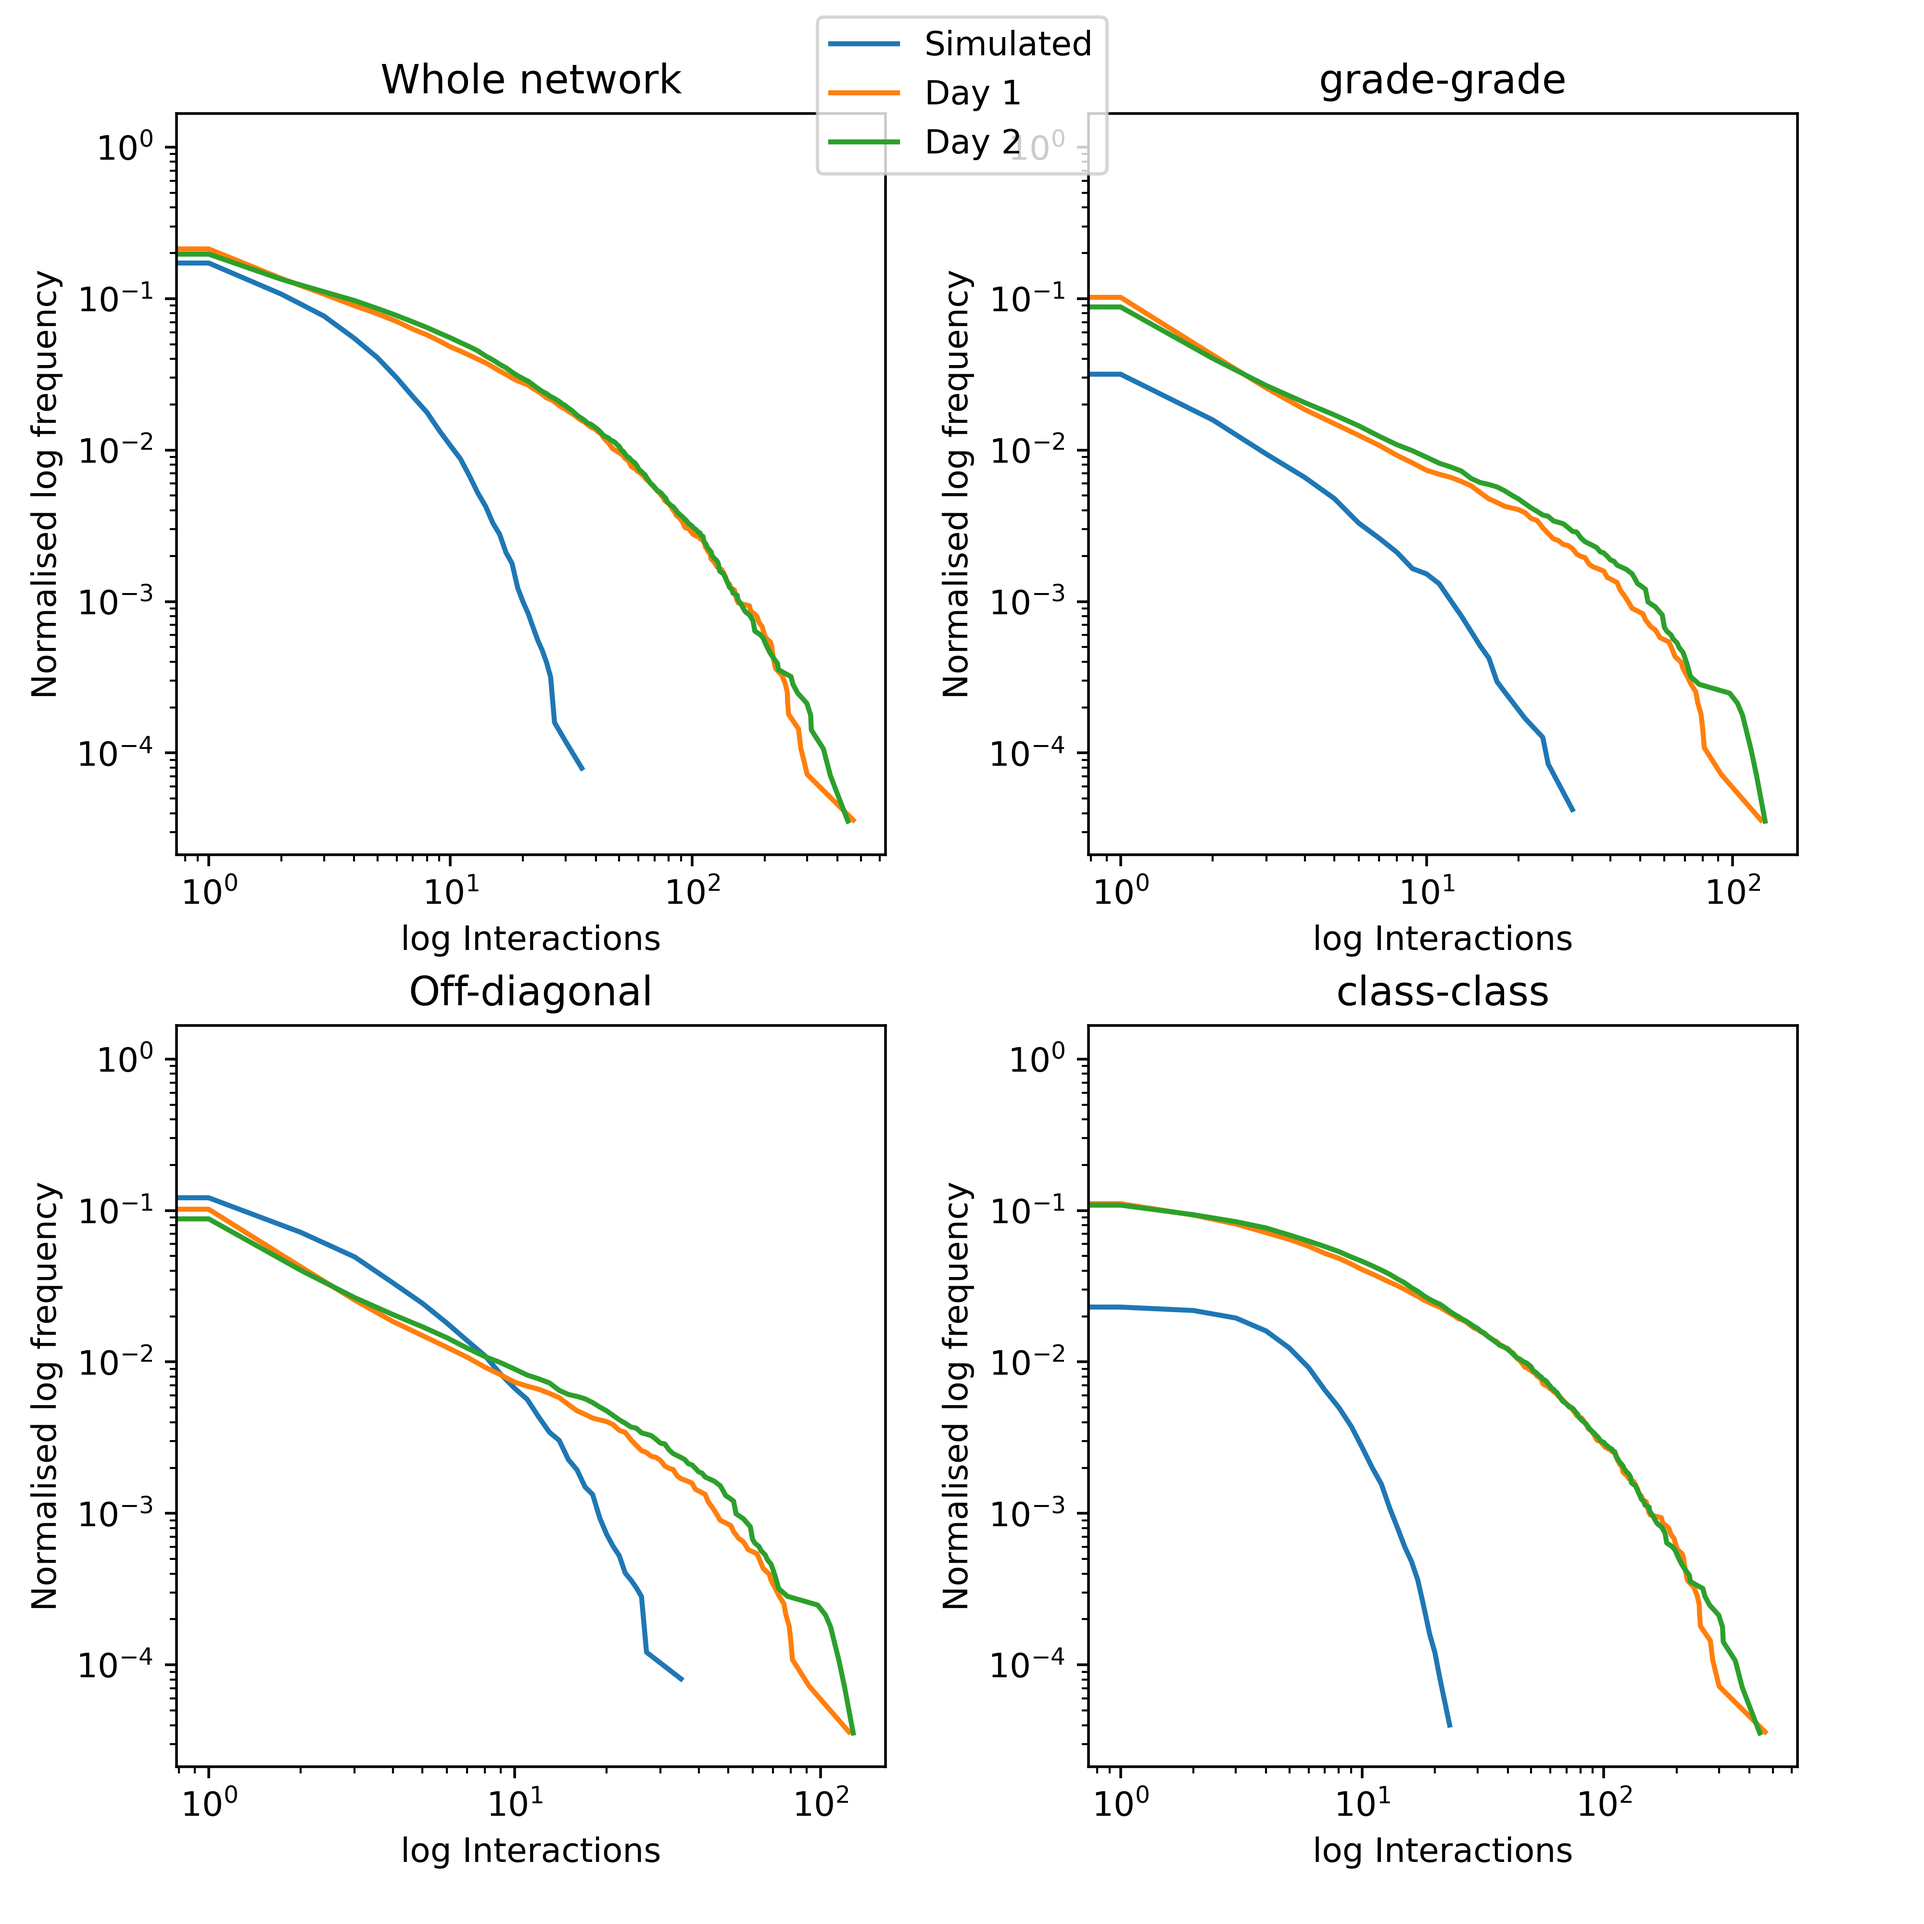
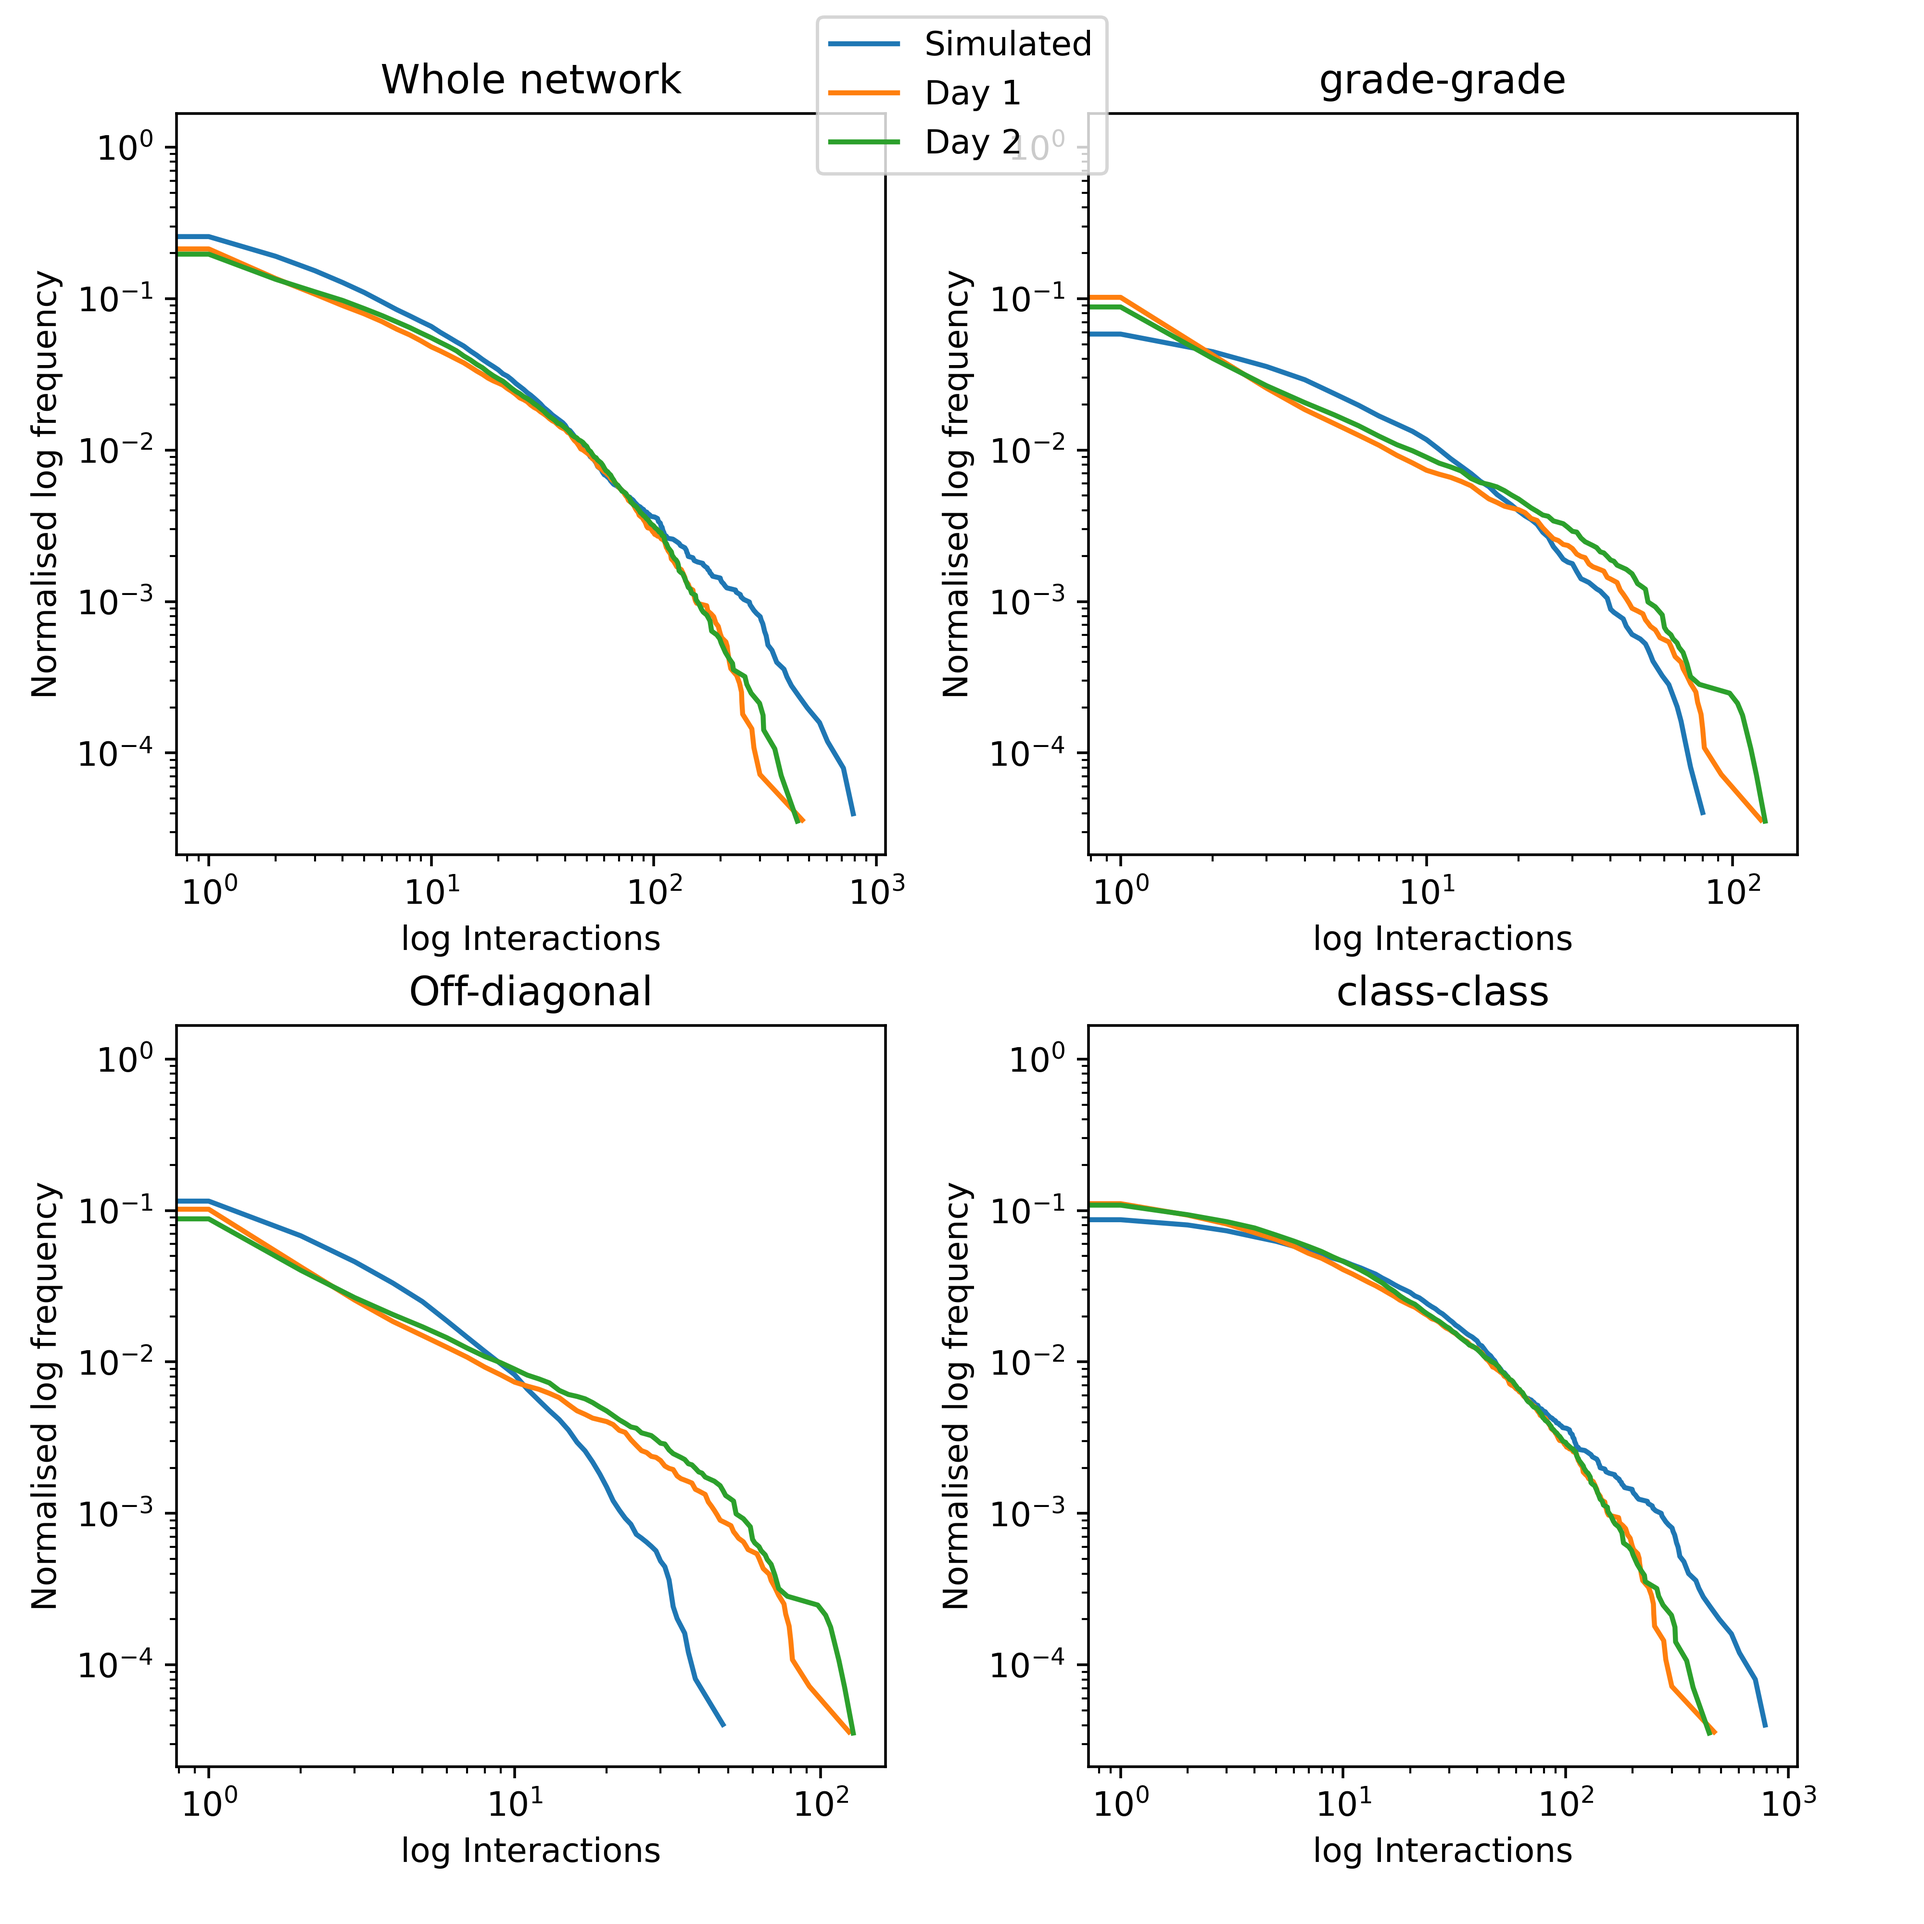
Updated parameters

diff --git a/person.py b/person.py
@@ -266,12 +266,12 @@ class Person:
             b2 = 0.01  # 0.07
 
             ## Grade-Grade
-            a3 = 1  # 100
-            b3 = 2  # 0.3
+            a3 = 20  # 100
+            b3 = 0.5  # 0.3
 
             ## Class-Class
-            a4 = 1  # 10000
-            b4 = 1  # 1
+            a4 = 35  # 10000
+            b4 = 2  # 1
 
         for i in range(len(students)):
             same_lunch = self.lunch_group == students[i].lunch_group
@@ -296,8 +296,8 @@ class Person:
             if same_class:
 
                 p += a4 * np.random.power(b4)
-                self.bias_vector[students[i]] = 10 * (math.log10(1 / random.random()))
-                students[i].bias_vector[self] = 10 * (math.log10(1 / random.random()))
+                # self.bias_vector[students[i]] = 10 * (math.log10(1 / random.random()))
+                # students[i].bias_vector[self] = 10 * (math.log10(1 / random.random()))
 
             self.p_vector[students[i]] = p * min(self.bias_vector[students[i]], students[i].bias_vector[self])
 

diff --git a/main.py b/main.py
@@ -18,7 +18,7 @@ def main():
 
     G = network.generate_iterations(10)
 
-    # analysis.pixel_dist_school(G, old=True, both=True)
+    analysis.pixel_dist_school(G, old=True, both=True)
     # analysis.degree_distribution_layers(sim=G, experimental=True, both=True)
     # analysis.heatmap(G)
     # analysis.runAnalysis2(G)
